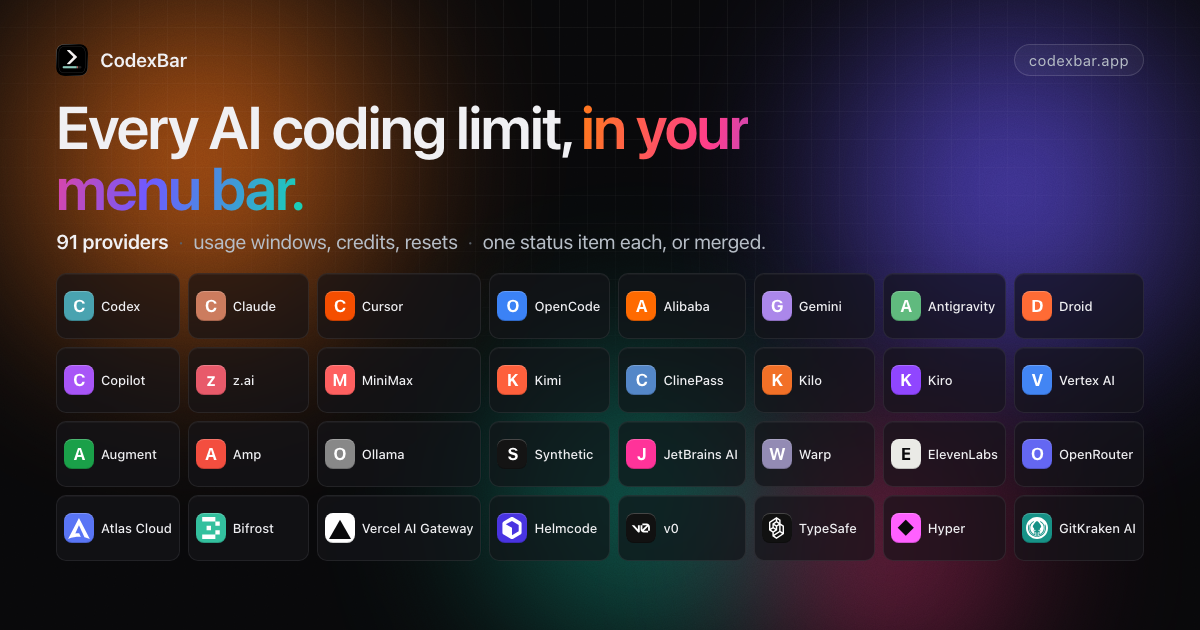
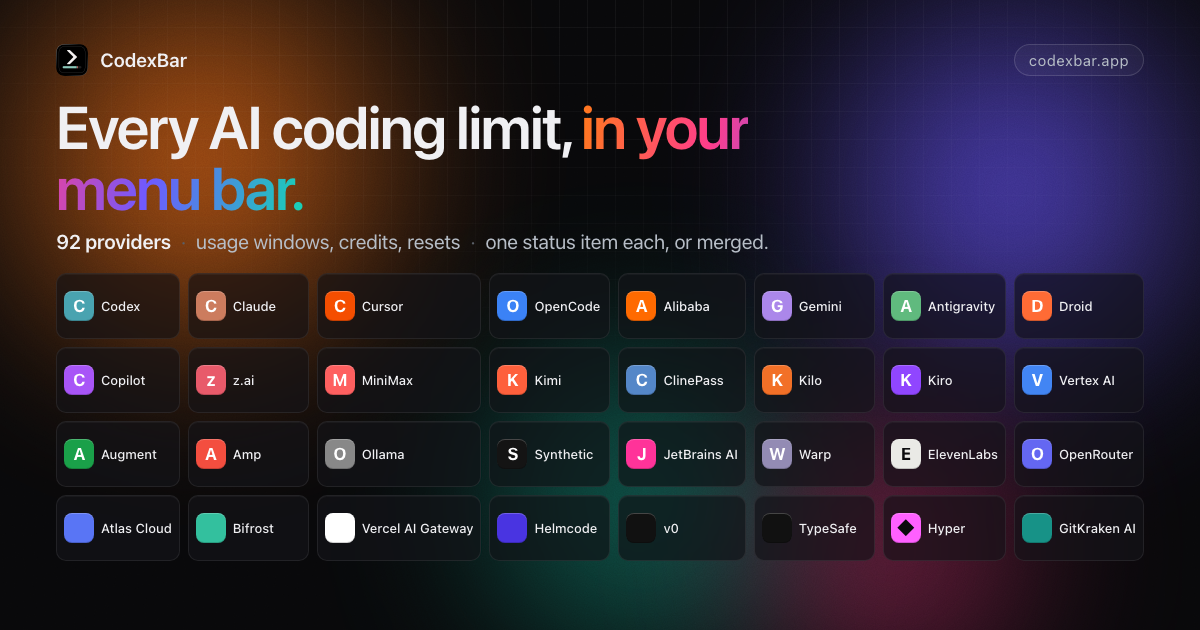
Restore social card and MyCoder provider documentation checks

diff --git a/docs/index.html b/docs/index.html
@@ -41,10 +41,10 @@
     />
     <meta property="og:type" content="website" />
     <meta property="og:url" content="https://codexbar.app/" />
-    <meta property="og:image" content="https://codexbar.app/social.png?v=3182891f443d237c" />
+    <meta property="og:image" content="https://codexbar.app/social.png?v=11ac1affbb4ce8d7" />
     <meta property="og:image:width" content="1200" />
     <meta property="og:image:height" content="630" />
-    <meta name="twitter:image" content="https://codexbar.app/social.png?v=3182891f443d237c" />
+    <meta name="twitter:image" content="https://codexbar.app/social.png?v=11ac1affbb4ce8d7" />
     <meta name="twitter:card" content="summary_large_image" />
     <link rel="icon" type="image/png" href="./icon.png?v=2" />
     <link rel="apple-touch-icon" href="./icon.png?v=2" />
@@ -391,6 +391,7 @@
           <li class="provider-card" data-provider="xkiro"><a class="provider-card-link" href="https://github.com/steipete/CodexBar/blob/main/docs/xkiro.md"><span class="provider-logo" style="--brand:#52C99B;--icon:url('./logos/xkiro.svg')"><img src="./logos/xkiro.svg" alt="" loading="lazy" onerror="this.remove()" /></span><p><strong>xKiro</strong><span data-i18n="auth.apiKey">API key</span></p></a></li>
 <!-- Generated provider additions: Scripts/regenerate-provider-docs.mjs -->
           <li class="provider-card" data-provider="langdock"><a class="provider-card-link" href="https://github.com/steipete/CodexBar/blob/main/docs/langdock.md"><span class="provider-logo" style="--brand:#5A4AE7;--icon:url('./logos/langdock.svg')"><img src="./logos/langdock.svg" alt="" loading="lazy" onerror="this.remove()" /></span><p><strong>Langdock</strong><span data-i18n="auth.cookies">Cookies</span></p></a></li>
+          <li class="provider-card" data-provider="mycoder"><a class="provider-card-link" href="https://github.com/louisje/CodexBar/blob/main/docs/mycoder.md"><span class="provider-logo" style="--brand:#0071C5;--icon:url('./logos/mycoder.svg')"><img src="./logos/mycoder.svg" alt="" loading="lazy" onerror="this.remove()" /></span><p><strong>MyCoder</strong><span data-i18n="auth.cookies">Cookies</span></p></a></li>
           <li class="provider-card" data-provider="lithosai"><a class="provider-card-link" href="https://github.com/steipete/CodexBar/blob/main/docs/lithosai.md"><span class="provider-logo" style="--brand:#6B7280;--icon:url('./logos/lithosai.svg')"><img src="./logos/lithosai.svg" alt="" loading="lazy" onerror="this.remove()" /></span><p><strong>LithosAI</strong><span data-i18n="auth.cookies">Cookies</span></p></a></li>
           <li class="provider-card" data-provider="workbuddy"><a class="provider-card-link" href="https://github.com/steipete/CodexBar/blob/main/docs/workbuddy.md"><span class="provider-logo" style="--brand:#0DC8A6;--icon:url('./logos/workbuddy.svg')"><img src="./logos/workbuddy.svg" alt="" loading="lazy" onerror="this.remove()" /></span><p><strong>WorkBuddy</strong><span data-i18n="auth.cookies">Cookies</span></p></a></li>
 <!-- End generated provider additions -->

diff --git a/docs/plugin-conversion-matrix.md b/docs/plugin-conversion-matrix.md
@@ -18,7 +18,7 @@ script. Settings-derived origins include the private-network HTTP policy for LLM
 `converted` means the bundled conversion is present behind `CODEXBAR_JS_PROVIDERS=1`. `cut-over` means the script is
 authoritative on its supported engines; each row states whether a Linux native core remains. Totals count only the
 69 audit rows below, excluding the separately listed plugin-first additions. The registry now contains 92 providers:
-69 audit rows, 13 additional plugin-first rows, and 10 providers not yet classified in this matrix (CodeRabbit,
+69 audit rows, 14 additional plugin-first rows, and 9 providers not yet classified in this matrix (CodeRabbit,
 Hugging Face, IBM Bob, Muse, Nous, Pi, Replicate, TypeSafe, and v0).
 
 `needs-cookie-import` now means **additional cookie/session capability**, not absence of cookie import. The current
@@ -57,8 +57,8 @@ Abacus, Muse, LongCat, Replicate, and TypeSafe unchanged.
 | `needs-pty/webview/native` | 8 |
 | `needs-host-extension` | 4 |
 | **Audit total** | **69** |
-| Additional plugin-first providers | 13 |
-| Registered providers not yet classified here | 10 |
+| Additional plugin-first providers | 14 |
+| Registered providers not yet classified here | 9 |
 | **Registry total** | **92** |
 
 ## Matrix
@@ -154,6 +154,7 @@ Abacus, Muse, LongCat, Replicate, and TypeSafe unchanged.
 | Provider | Status | Engines | Scope |
 |---|---|---|---|
 | langdock | `cut-over` | QuickJS + JavaScriptCore | Host-owned selected Edge profile, live session revalidation, and personal tRPC limits on both engines; no quota history or widgets. |
+| mycoder | `cut-over` | QuickJS + JavaScriptCore | Internal MyCoder quota and per-model usage via the selected Chrome session; access requires the corporate network. |
 | lithosai | `cut-over` | QuickJS + JavaScriptCore | Opaque session cookies with same-origin host CSRF echo; active-organization balance and optional spend on both engines. |
 | workbuddy | `cut-over` | QuickJS + JavaScriptCore | Host-owned website session cookies with the matching Chrome User-Agent; billing summary plus optional package listings for the cycle reset on both engines. |
 

diff --git a/README.md b/README.md
@@ -10,7 +10,7 @@
 [![License: MIT](https://img.shields.io/badge/license-MIT-6e5aff?style=flat-square)](LICENSE)
 [![Site](https://img.shields.io/badge/site-codexbar.app-16d3b4?style=flat-square)](https://codexbar.app)
 
-<a href="https://codexbar.app"><img src="docs/social.png?v=3182891f443d237c" alt="CodexBar — every AI coding limit in your menu bar. 92 providers." width="100%" /></a>
+<a href="https://codexbar.app"><img src="docs/social.png?v=11ac1affbb4ce8d7" alt="CodexBar — every AI coding limit in your menu bar. 92 providers." width="100%" /></a>
 
 Tiny macOS 14+ menu bar app that keeps **AI coding-provider limits visible** and shows when each window resets. See the [supported providers](#providers) below. One status item per provider, or Merge Icons mode with a provider switcher. No Dock icon, minimal UI, dynamic bar icons.
 
@@ -184,6 +184,7 @@ See [CLI configuration](docs/cli-configuration.md) for the full flow.
 
 <!-- Generated provider additions: Scripts/regenerate-provider-docs.mjs -->
 - [Langdock](docs/langdock.md) — Selected Microsoft Edge profile → personal included session and weekly limits (`web`, macOS).
+- [MyCoder](docs/mycoder.md) — ASUS MyCoder internal quota API, authenticated with a browser SSO cookie.
 - [LithosAI](docs/lithosai.md) — Chrome or manual console cookies for prepaid USD balance and optional UTC spend.
 - [WorkBuddy](docs/workbuddy.md) — Chrome or manual www.workbuddy.cn cookies for the monthly credits allowance, plan name, and cycle reset.
 <!-- End generated provider additions -->

diff --git a/docs/mycoder.md b/docs/mycoder.md
@@ -1,0 +1,27 @@
+---
+summary: "MyCoder monthly usage and token budget from the ASUS internal dashboard."
+provider_id: mycoder
+provider_name: MyCoder
+provider_source: ASUS MyCoder internal quota API, authenticated with a browser SSO cookie.
+plugin_scope: Internal MyCoder quota and per-model usage via the selected Chrome session; access requires the corporate network.
+read_when:
+  - Setting up MyCoder in a CodexBar fork
+  - Troubleshooting MyCoder quotas or browser credentials
+---
+
+# MyCoder
+
+MyCoder is a fork-specific provider intended for users who already have access to the
+ASUS MyCoder dashboard and internal services. It is disabled by default.
+
+Enable **MyCoder** in CodexBar and sign in to the MyCoder dashboard in Chrome.
+CodexBar can import the browser session cookie, or accept a manually supplied
+cookie header in MyCoder settings. Access requires the relevant internal network
+and account permissions. Never share or commit browser cookies or SSO tokens.
+
+MyCoder reports a monthly quota and optional per-model token usage. The quota
+may be unavailable when an SSO session expires or internal API access is blocked.
+Check the selected browser session and network access when refresh fails.
+
+This provider belongs to the `louisje/CodexBar` fork and is not part of the
+upstream `steipete/CodexBar` release.

diff --git a/docs/providers.md b/docs/providers.md
@@ -165,6 +165,7 @@ complete when the available scan window covers fewer days.
 | Provider | Source |
 |---|---|
 | [Langdock](langdock.md) | Selected Microsoft Edge profile → personal included session and weekly limits (`web`, macOS). |
+| [MyCoder](mycoder.md) | ASUS MyCoder internal quota API, authenticated with a browser SSO cookie. |
 | [LithosAI](lithosai.md) | Chrome or manual console cookies for prepaid USD balance and optional UTC spend. |
 | [WorkBuddy](workbuddy.md) | Chrome or manual www.workbuddy.cn cookies for the monthly credits allowance, plan name, and cycle reset. |
 
